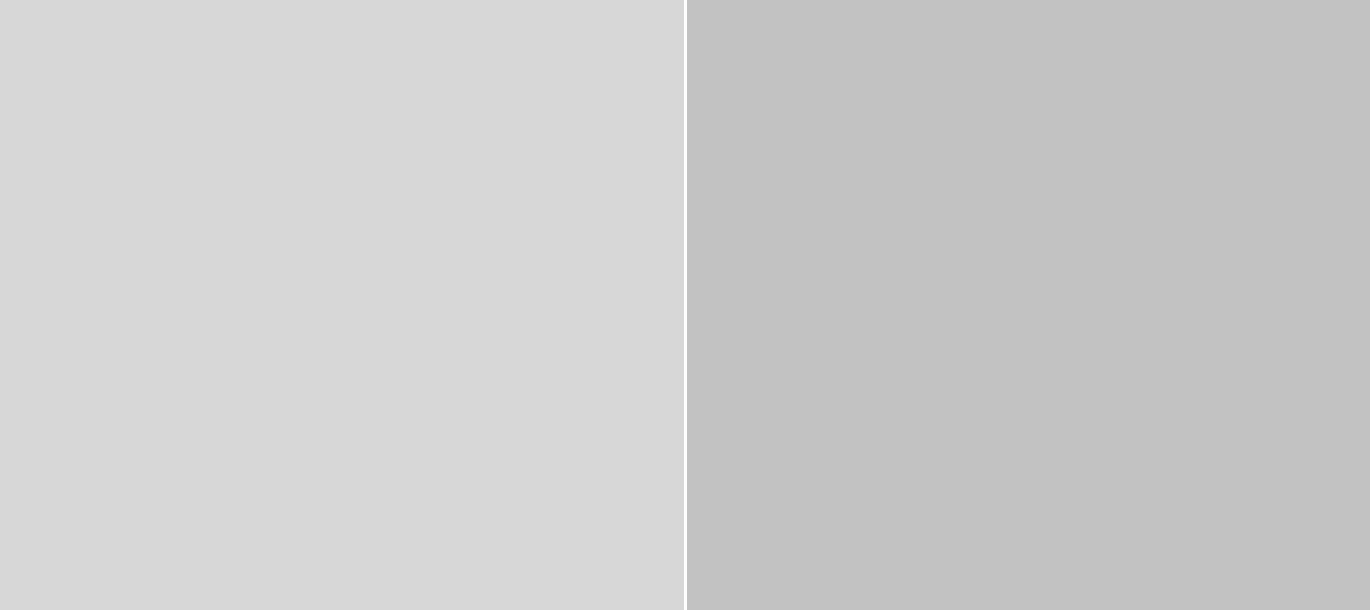
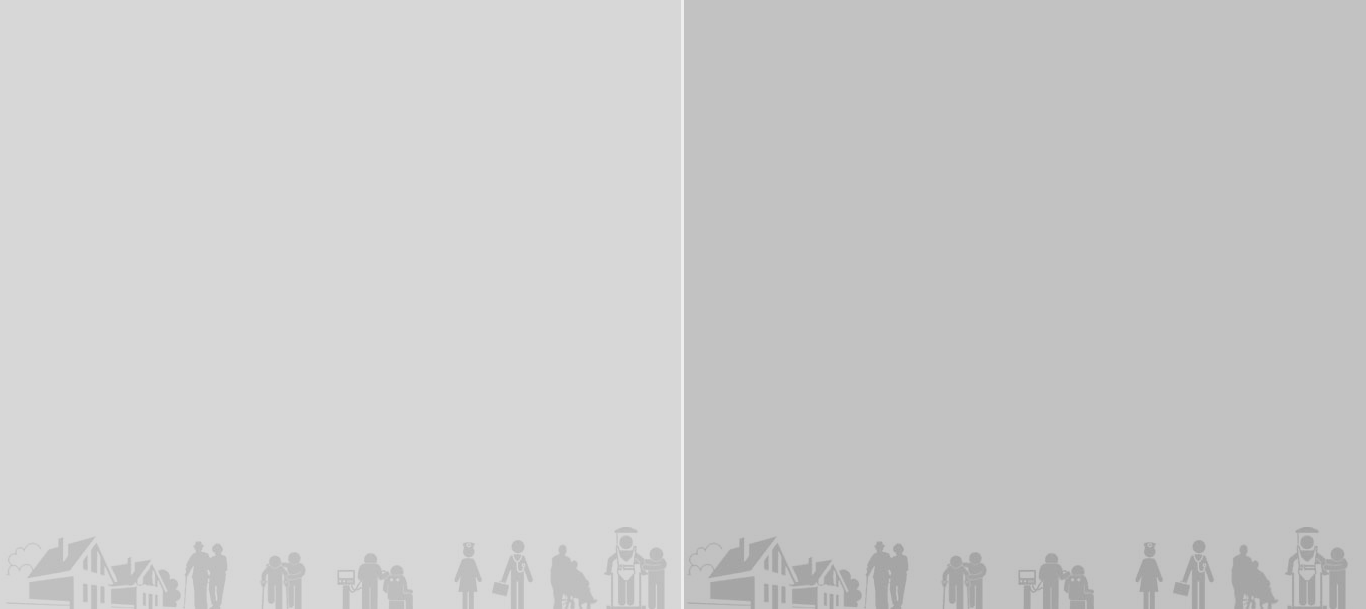
Home modifications ui changes

diff --git a/src/webapp/assets/css/by/by_homeModification.css b/src/webapp/assets/css/by/by_homeModification.css
@@ -111,22 +111,29 @@
 }
 .by_homeModiSecurityBg
 {
-    background: #e1e1e1;
+    background: url('../../img/home-modification/security_bg.png?versionTimeStamp=%PROJECT_VERSION%') no-repeat bottom;
+    padding-bottom: 60px;
+    background-size: cover;
 }
 .by_homeModiSafComBg
 {
-    background: url('../../img/home-modification/com_saf.png?versionTimeStamp=%PROJECT_VERSION%') no-repeat top;
+    background: url('../../img/home-modification/com_saf.png?versionTimeStamp=%PROJECT_VERSION%') no-repeat bottom;
+    padding-bottom: 60px;
     background-size: cover;
     margin-bottom: 4px;
 }
 .by_homeModiSafBg
 {
-    background: #d7d7d7;
+    background: url('../../img/home-modification/safety_bg.png?versionTimeStamp=%PROJECT_VERSION%') no-repeat bottom;
+    padding-bottom: 60px;
+    background-size: cover;
     margin-bottom: 4px;
 }
 .by_homeModiComBg
 {
-    background: #c2c2c2;
+    background: url('../../img/home-modification/confort_bg.png?versionTimeStamp=%PROJECT_VERSION%') no-repeat bottom;
+    padding-bottom: 60px;
+    background-size: cover;
     margin-bottom: 4px;
 }
 .by_homeModiSafComLeft

diff --git a/src/webapp/app/components/homeModifications/homeModifications.html b/src/webapp/app/components/homeModifications/homeModifications.html
@@ -32,9 +32,9 @@
 
 
 <div class="by_container by_homeCallBg" style="background:#FF850F;">
-    <div class="by_homeSection" style="padding: 8px 0px;">
+    <div class="by_homeSection" style="padding: 6px 0px;">
         <div class="by_homeSectionInside">
-            <div class="by_homeModiWhy by_homeModiWhiteColor">
+            <div class="by_homeModiWhy by_homeModiWhiteColor" style="line-height:34px;">
             	MOST OF THE <b>FALLS CAN BE PREVENTED!</b><br/> CALL <b>{{telNo}}</b>
             </div>
         </div>
